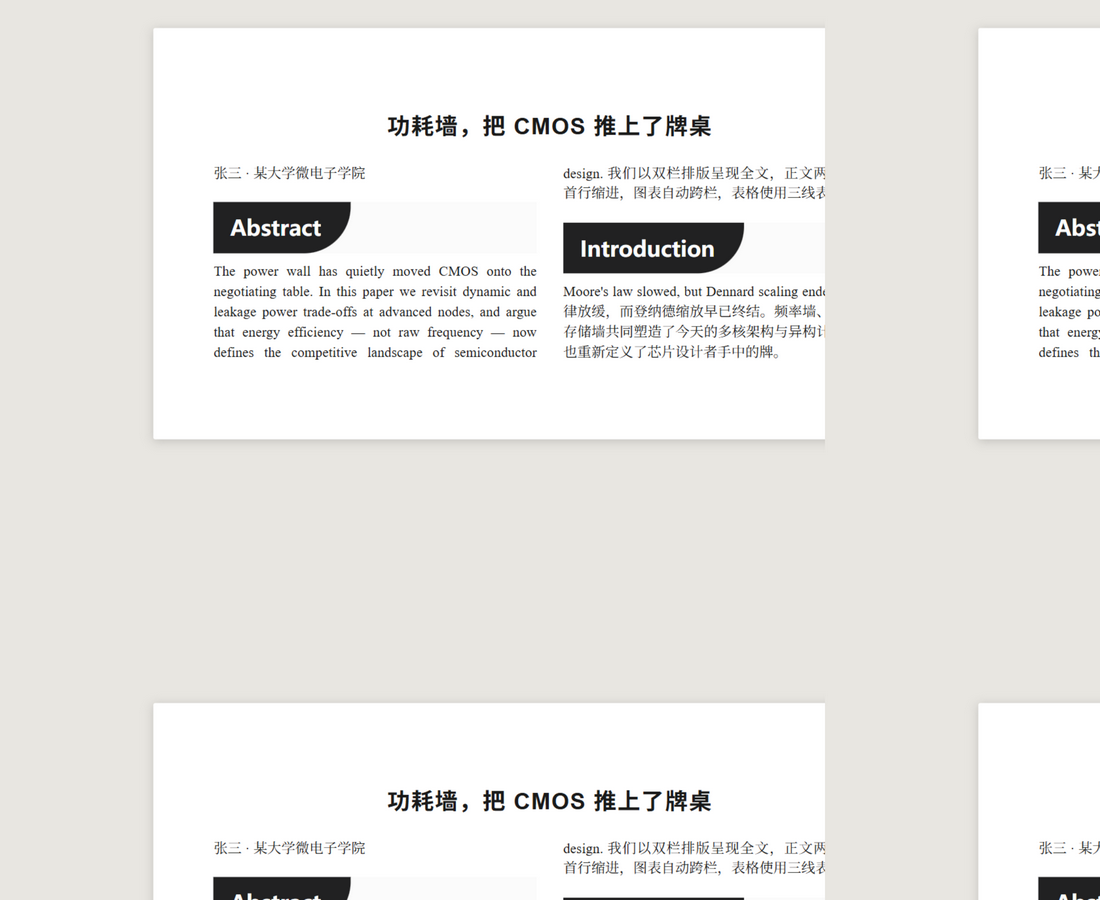
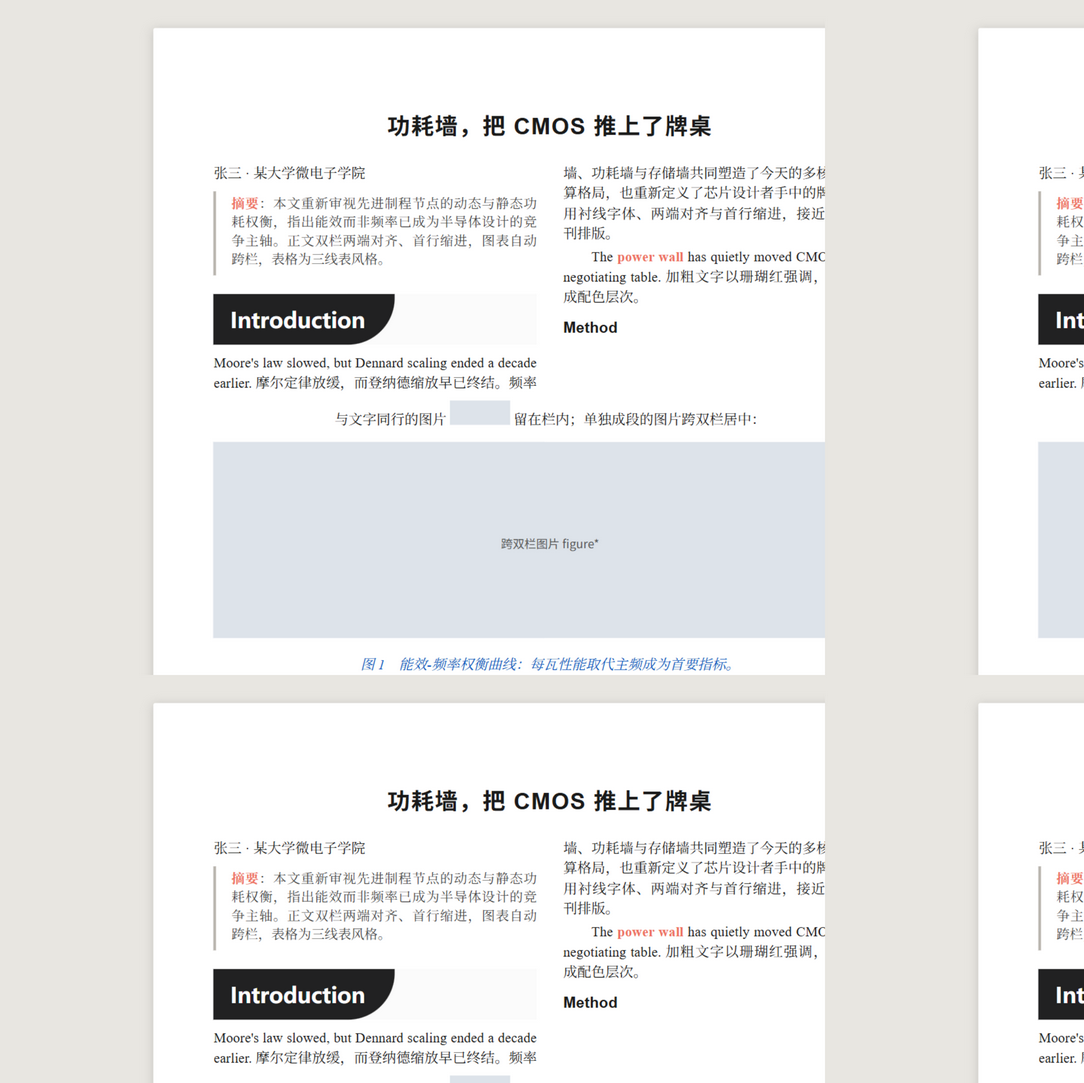
docs: add style gallery with screenshots of all six themes

diff --git a/README.md b/README.md
@@ -9,6 +9,19 @@ captions — and exports to a true A4 two-column PDF.
 
 [中文文档（详细）](README.zh-CN.md) | [Gallery post](https://theme.typora.io/)
 
+## Style gallery — all six variants
+
+The same document, rendered under each theme:
+
+| Theme | Column rhythm | Look | Preview |
+|-------|---------------|------|---------|
+| `typlatex` | Two-column, journal | Plain | ![typlatex](screenshots/typlatex.png) |
+| `typlatex-book` | Two-column, book (H2 spans page) | Plain | ![typlatex-book](screenshots/typlatex-book.png) |
+| `typlatex-ink` | Two-column, journal | Ink | ![typlatex-ink](screenshots/typlatex-ink.png) |
+| `typlatex-book-ink` | Two-column, book | Ink | ![typlatex-book-ink](screenshots/typlatex-book-ink.png) |
+| `typlatex-article` | Single column (12pt / 1.6) | Plain | ![typlatex-article](screenshots/typlatex-article.png) |
+| `typlatex-article-ink` | Single column | Ink | ![typlatex-article-ink](screenshots/typlatex-article-ink.png) |
+
 ## The theme family (6 variants)
 
 Two dimensions — column rhythm × look:

diff --git a/README.zh-CN.md b/README.zh-CN.md
@@ -1,6 +1,19 @@
-# Typlatex v1.0 — Typora 双栏 A4 LaTeX 风格主题
+# Typlatex v3.0 — Typora 双栏 A4 LaTeX 风格主题家族
 
 > 名字 = Typora + LaTeX。在 Typora 中获得接近 LaTeX 双栏论文的排版效果：
+
+## 样式总览（六款全览）
+
+同一份文档在六个主题下的渲染效果：
+
+| 主题 | 栏式 | 装修 | 预览 |
+|------|------|------|------|
+| `typlatex` | 双栏·期刊 | 朴素 | ![typlatex](screenshots/typlatex.png) |
+| `typlatex-book` | 双栏·书式 | 朴素 | ![typlatex-book](screenshots/typlatex-book.png) |
+| `typlatex-ink` | 双栏·期刊 | 墨青 | ![typlatex-ink](screenshots/typlatex-ink.png) |
+| `typlatex-book-ink` | 双栏·书式 | 墨青 | ![typlatex-book-ink](screenshots/typlatex-book-ink.png) |
+| `typlatex-article` | 单栏传统 | 朴素 | ![typlatex-article](screenshots/typlatex-article.png) |
+| `typlatex-article-ink` | 单栏传统 | 墨青 | ![typlatex-article-ink](screenshots/typlatex-article-ink.png) |
 
 ## 主题家族
 
